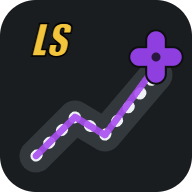
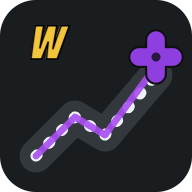
Rebrand: LS Maps → Waypoint
Logo (gold WAY / white POINT), page title, iOS/Android app names,
manifest, icon (W + blip), README. Repo/URL unchanged so existing
installs and QR links keep working.

Changed region(s): [[0.1562, 0.0938, 0.375, 0.3125]]

diff --git a/index.html b/index.html
@@ -3,23 +3,24 @@
 <head>
   <meta charset="UTF-8">
   <meta name="viewport" content="width=device-width, initial-scale=1.0, maximum-scale=1.0, user-scalable=no, viewport-fit=cover">
-  <title>LS Maps</title>
-  <meta name="description" content="Turn-by-turn navigation with a GTA-inspired look.">
+  <title>Waypoint</title>
+  <meta name="description" content="Waypoint — turn-by-turn navigation with a GTA-inspired look.">
   <meta name="theme-color" content="#1A1D20">
   <meta name="apple-mobile-web-app-capable" content="yes">
+  <meta name="apple-mobile-web-app-title" content="Waypoint">
   <meta name="apple-mobile-web-app-status-bar-style" content="black-translucent">
   <link rel="manifest" href="manifest.webmanifest">
   <link rel="icon" href="icon.svg" type="image/svg+xml">
   <link rel="apple-touch-icon" href="icon-180.png">
   <link rel="stylesheet" href="vendor/maplibre-gl.css">
-  <link rel="stylesheet" href="css/app.css?v=6">
+  <link rel="stylesheet" href="css/app.css?v=7">
 </head>
 <body>
   <div id="map"></div>
 
   <!-- Desktop-only: Waze-style promo bar + send-to-phone modal -->
   <div id="pc-bar" class="pc-bar hidden">
-    <div class="logo pc-bar-logo"><span class="logo-ls">LS</span><span class="logo-maps">MAPS</span></div>
+    <div class="logo pc-bar-logo"><span class="logo-ls">WAY</span><span class="logo-maps">POINT</span></div>
     <div class="pc-bar-text">GPS NAVIGATION &middot; BUILT FOR YOUR PHONE</div>
     <button id="btn-send" class="btn-send">SEND TO YOUR PHONE</button>
     <button id="pc-bar-close" class="pc-bar-x" aria-label="Dismiss">&#10005;</button>
@@ -28,7 +29,7 @@
   <div id="send-modal" class="modal hidden">
     <div class="modal-card">
       <button id="send-close" class="modal-x" aria-label="Close">&#10005;</button>
-      <div class="logo gate-logo"><span class="logo-ls">LS</span><span class="logo-maps">MAPS</span></div>
+      <div class="logo gate-logo"><span class="logo-ls">WAY</span><span class="logo-maps">POINT</span></div>
       <div class="gate-title">GET IT ON YOUR PHONE</div>
       <div id="send-qr" class="gate-qr"></div>
       <div id="send-url" class="gate-url"></div>
@@ -38,7 +39,7 @@
 
   <!-- Top HUD: logo chip -->
   <header class="hud-top">
-    <div class="logo" aria-hidden="true"><span class="logo-ls">LS</span><span class="logo-maps">MAPS</span></div>
+    <div class="logo" aria-hidden="true"><span class="logo-ls">WAY</span><span class="logo-maps">POINT</span></div>
   </header>
 
   <!-- Waze-style bottom sheet: search, shortcuts, recents -->

diff --git a/css/app.css b/css/app.css
@@ -192,14 +192,14 @@ html, body { overscroll-behavior: none; }
   flex: 0 0 auto;
 }
 .logo-ls {
-  font-size: 26px;
+  font-size: 22px;
   color: #F3C53D;
   text-shadow: 2px 2px 0 #000;
 }
 .logo-maps {
-  font-size: 26px;
+  font-size: 22px;
   color: #fff;
-  margin-left: 4px;
+  margin-left: 3px;
   text-shadow: 2px 2px 0 #000;
 }
 
@@ -800,7 +800,7 @@ body.nav-on .hud-side { bottom: calc(120px + env(safe-area-inset-bottom)); }
 body.nav-on .report-fab { bottom: calc(120px + env(safe-area-inset-bottom)); right: 76px; }
 
 @media (max-width: 420px) {
-  .logo-ls, .logo-maps { font-size: 21px; }
+  .logo-ls, .logo-maps { font-size: 17px; }
   .turn-arrow { font-size: 32px; }
   .turn-dist { font-size: 18px; }
 }

diff --git a/README.md b/README.md
@@ -1,4 +1,4 @@
-# LS Maps
+# Waypoint
 
 Turn-by-turn navigation web app with a GTA-inspired look — dark Los Santos-style map,
 purple waypoint blip, purple GPS route line, voice directions.